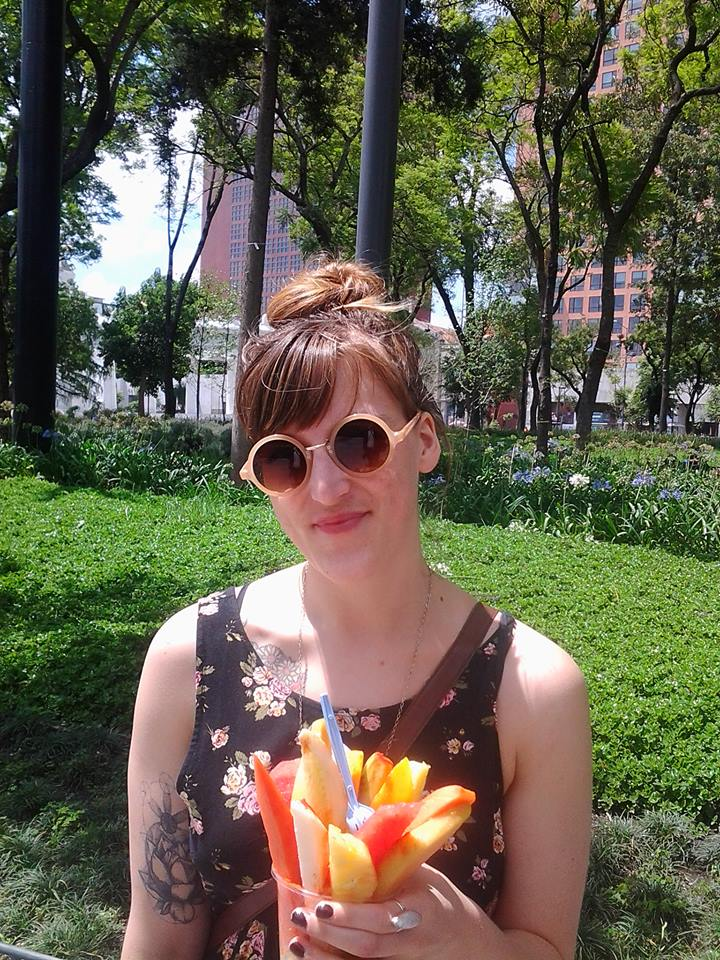
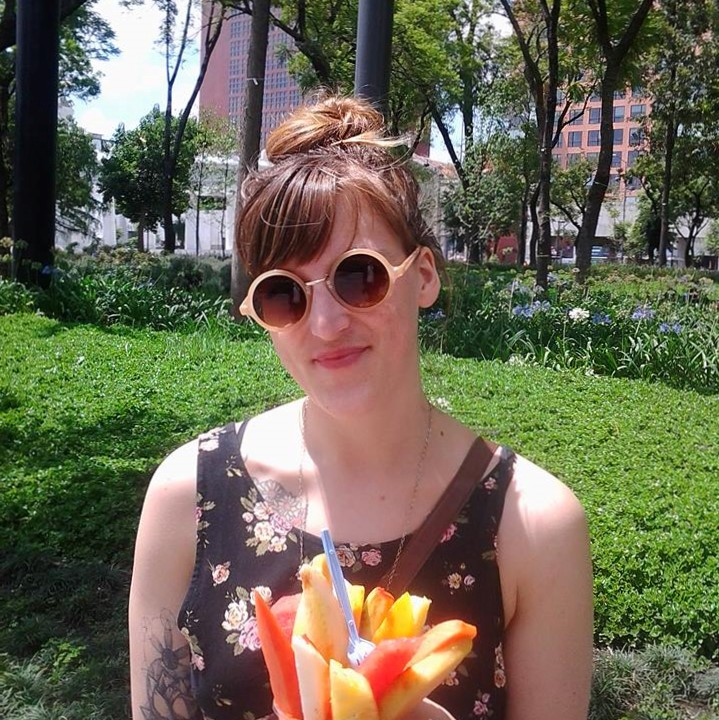
last commit before due

diff --git a/index.html b/index.html
@@ -1,38 +1,67 @@
 <!DOCTYPE html>
 <html>
 <head>
-		<link href="default-styles.css" type="text/css" rel="stylesheet">
+	<link href="default-styles.css" type="text/css" rel="stylesheet">
 </head>
-<title>Evie Ebert</title>
+<title>HIRE EVIE EBERT</title>
 <body>
+	<div id="header
+		<	<div class="container">
 
-	<h1>Evie Ebert</h1>
-	<p>Full-stack web developer, carbon-based life-form.</p>
-	<ul>
-		<li><a href="x">About Me</a></li>
-		<li><a href="x">Projects</a></li>
-		<li><a href="x">Skills</a></li>
+			<!-- Logo -->
+			<h1><a href="#" id="logo"></h1>
 
-		<h2>About me</h2>
-		<img src="me.jpg" alt="photo of me">
-		<ul>
-			<li>I’m a creative and pragmatic full-stack developer who just completed a software engineering certificate via a 12-week intensive coding boot camp. My background is in social science research and non-profit and government program management, which influences my approach to web development at every level. </p></li>
-			<li>contact info</li>
-			<li>Links to github and linkedin</li>
+			<!-- Nav -->
+			<nav id="nav">
+				<ul>
+					<li><a href="#aboutme">about me</a></li>
+					<li><a href="#projects">projects</a></li>
+					<li><a href="#skills">skills</a></li>
+				</ul>
+			</li>
+		</ul>
+	</nav>
+</div>
+</div>
+</div>
 
-			<h2>Projects</h2>
-			<ul>
-				<li>x screenshots to projects x</li>
-				<li>x screenshots to project 2x</li>
-				<li>x screenshots to project 2x</li>
-			</ul>
 
-			<h2>Skills</h2>
-			<ul>
-			<li>xfirst skillx</li>
-				<li>xsecond skill x</li>
-				<li>xthird skillx</li>
-			</ul>
+<h1>Evie Ebert</h1>
+<p>Full-stack web developer, carbon-based life-form.</p>
+<p>My first name rhymes with Chevy.</p>
+<img src="photos/me.jpg" alt="photo of me" width="300" height="300" align="center" style="margin:50px 50px">	
 
-		</body>
-		</html>
+<ul>
+	<h2 id="aboutme">about me</h2>
+	<li>I’m a creative and pragmatic full-stack developer who just completed a software engineering certificate via a 12-week intensive coding boot camp.</li>
+	<li>My background is in social science research and non-profit and government program management, which influences my approach to web development at every level.</li>
+	<li>Send me an <a href="mailto:evelyn.ebert@gmail.com">email</a></li>
+	<li>See what I've been <a href="https://github.com/emebert">coding lately</a> on my Github</li>
+	<li>Check out my <a href="https://www.linkedin.com/in/evieebert">LinkedIn</a></li>
+</ul>
+<h2 id="projects">projects</h2>
+<ul style= "list-style: none; align="left">
+	<li><figure>
+	<a href="https://github.com/emebert/fortune-teller"><img src="photos/fortuneteller.png" alt="fortune teller app screenshot" align="left" style="margin:50px 100px"><figcaption>FORTUNE TELLING APP.</figcaption>
+		</figure></li>
+		<li>(basic fortune telling app written in Java using conditional statements and switch/case)</li>
+		<li><figure><a href="https://github.com/emebert/virtual-pet"><img src="photos/virtualpet.png" alt="virtual pet app screenshot" align="left" style="margin:50px 100px"><figcaption>VIRTUAL PET APP</figcaption></figure></li>
+		<li>(virtual pet app written in Java using a game loop multiple methods for interaction)</li>
+		<li><figure><a href="https://github.com/emebert/virtual-pet-shelter"><img src="photos/virtualpetshelter.png" alt="virtual pet shelter app screenshot" align="left" style="margin:50px 100px"><figcaption>VIRTUAL PET SHELTER APP.</figcaption><figure></li>
+		<li>(virtual Pet Shelter app written in Java using a game loop.)</li>
+
+	</ul>
+<break>
+	
+	<h2 id="skills">skills</h2>
+	<ul style="list-style: none;">
+		<li>Java  •  Spring  •  Hibernate  •  JavaScript  •  jQuery  • </li>
+		<li>HTML5  •  CSS3  •  Bootstrap  •  MVC  •  Responsive Design / Mobile</li>
+		<li>Structured Query Language (SQL)  •  Transactional Databases / MSSQL</li>
+		<li>Object Oriented  •  Source Control / Git</li>
+	</ul>
+<footer>
+  <p>Don't look down here, all the good stuff's up there!</p>
+</footer>
+</body>
+</html>

diff --git a/default-styles.css b/default-styles.css
@@ -1,41 +1,74 @@
+@import url("font-awesome.min.css");
+@import url("http://fonts.googleapis.com/css?family=Open+Sans:300,400,600,700,800");
+@import url('https://fonts.googleapis.com/css?family=Open+Sans|Pacifico');
+
+
 * {
 	box-sizing: border-box;
 }
-body {
-	color: #36454f;
-	font-family: 'Slabo 27px', serif;
+	body, input, select, textarea {
+		color: #555555;
+		font-family: 'Open Sans', sans-serif;
+		font-size: 12pt;
+		font-weight: 300;
+		line-height: 1.65em;
+		text-decoration: none;
+	}
 }
-header {
-	padding: 0 0 .85em;
+header.major {
+		padding-bottom: 3em;
+		text-align: center;
+		text-transform: uppercase;
+	}
+
+		header.major h2 {
+			font-size: 2.6em;
+			font-weight: 700;
+		}
+
+		header.major .byline {
+			display: block;
+			padding-top: 1em;
+			letter-spacing: 1px;
+			font-size: 1.4em;
+		}
+h1 {
+		font-family:'Pacifico', cursive;
+		font-size: 24pt;
+		font-weight: 325;
+		line-height: 1.65em;
 }
-header::after {
-	content: "";
-	display: table;
-	clear: both;
-}
-h1,
 h2 {
-	font-family: 'Slabo 27px', serif;
-	color: #36454f;
-	margin-top: .65em;
+		font-family: 'Open Sans', sans-serif;
+		font-size: 16pt;
+		font-weight: 300;
+		line-height: 1.65em;
 }
 main > h2 {
 	margin-bottom: 1.25em;
 }
 h3,
 h2 {
+	font-family: 'Pacifico', cursive;
 	font-weight: normal;
+	text-decoration: none;
 }
 a {
 	color: #4683af;
 }
 nav ul {
+	font-family: 'Pacifico', cursive;
 	list-style-type: none;
-	padding: 0;
+	padding: 25px;
 }
-main ul {
-	padding: 0;
-}
+
+ul{
+display:inline-block;
+  margin:0;
+  padding:0 20px;
+  text-decoration: none;
+} 
+
 input {
 	border-radius: .3em;
 	border: none;
@@ -68,6 +101,8 @@ nav {
 	margin-top: 20px;
 }
 nav li {
+	font-family: 'Open Sans', sans-serif;
+	font-size: 16pt;
 	display: inline-block;
 	margin: 0 0.45em;
 }
@@ -106,6 +141,7 @@ article {
 	width: 42%;
 	padding-bottom: 1.8em;
 }
+
 footer {
 	border-top: 1px dotted #dadada;
 	text-align: center;
